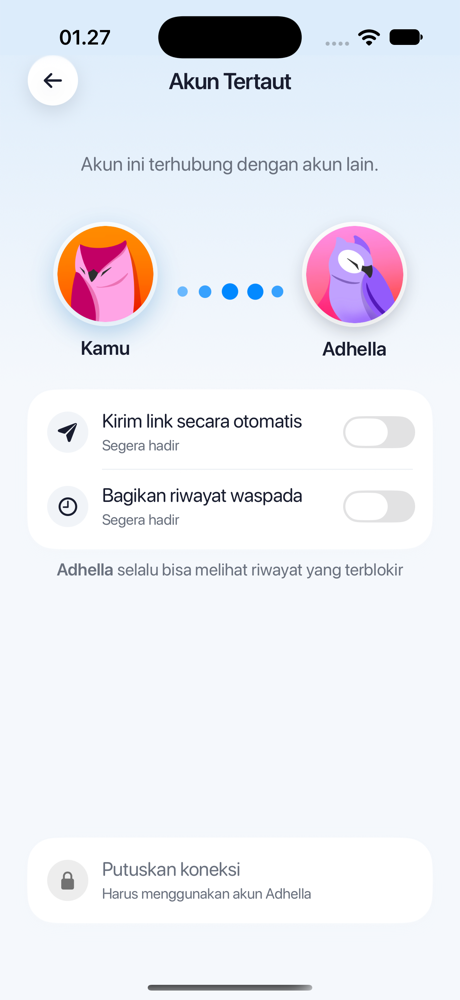
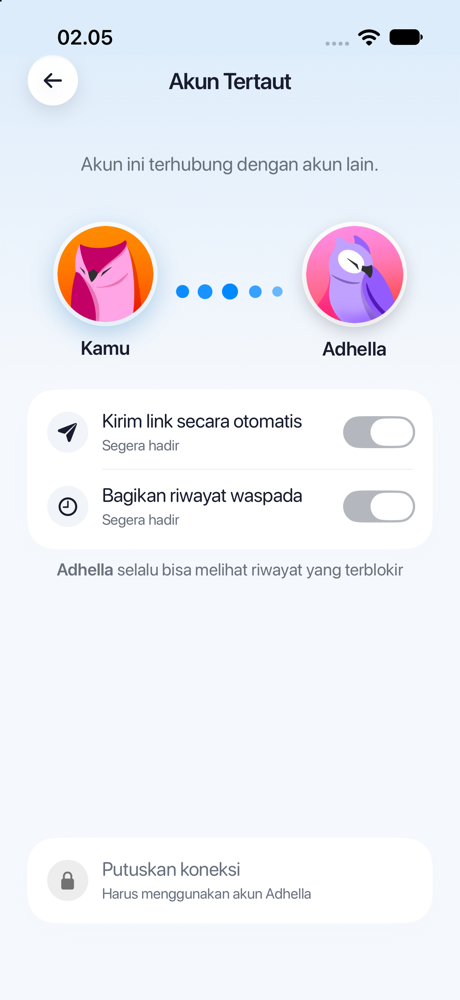
fix(PR-04): V1 switches stay on, only grey
Every check does go to the guardian today (#183, ProfileUITests): an
"off" switch would say less is shared than really is. They keep their
on state and only lose the green of a switch the user can change.

diff --git a/ios/ShooApp/Features/Profile/ProfilePages.swift b/ios/ShooApp/Features/Profile/ProfilePages.swift
@@ -854,17 +854,18 @@ private struct ConnectionPage: View {
                     .accessibilityIdentifier("linked.shareWarnings")
             } else {
                 // Today the extension sends every check to the guardian, so both read on and can't change.
-                // V1 (goldfish 21 Nov): off and grey, not a green "on" switch: "Segera hadir" must not read as already sharing.
+                // V1 (goldfish 21 Nov): grey, not the green of a switch the user can change. They stay on because today every
+                // check does go to the guardian (#183): an "off" switch would say less is shared than really is.
                 ProfileToggleRow(
                     symbol: "paperplane.fill", title: Text("Send links automatically"), subtitle: Text("Coming soon"),
-                    tint: ProfileStyle.secondary, isOn: .constant(false)
+                    tint: ProfileStyle.secondary, isOn: .constant(true)
                 )
                 .disabled(true)
                 .accessibilityIdentifier("linked.autoSend")
                 ProfileDivider()
                 ProfileToggleRow(
                     symbol: "clock", title: Text("Share caution history"), subtitle: Text("Coming soon"),
-                    tint: ProfileStyle.secondary, isOn: .constant(false)
+                    tint: ProfileStyle.secondary, isOn: .constant(true)
                 )
                 .disabled(true)
                 .accessibilityIdentifier("linked.shareWarnings")
